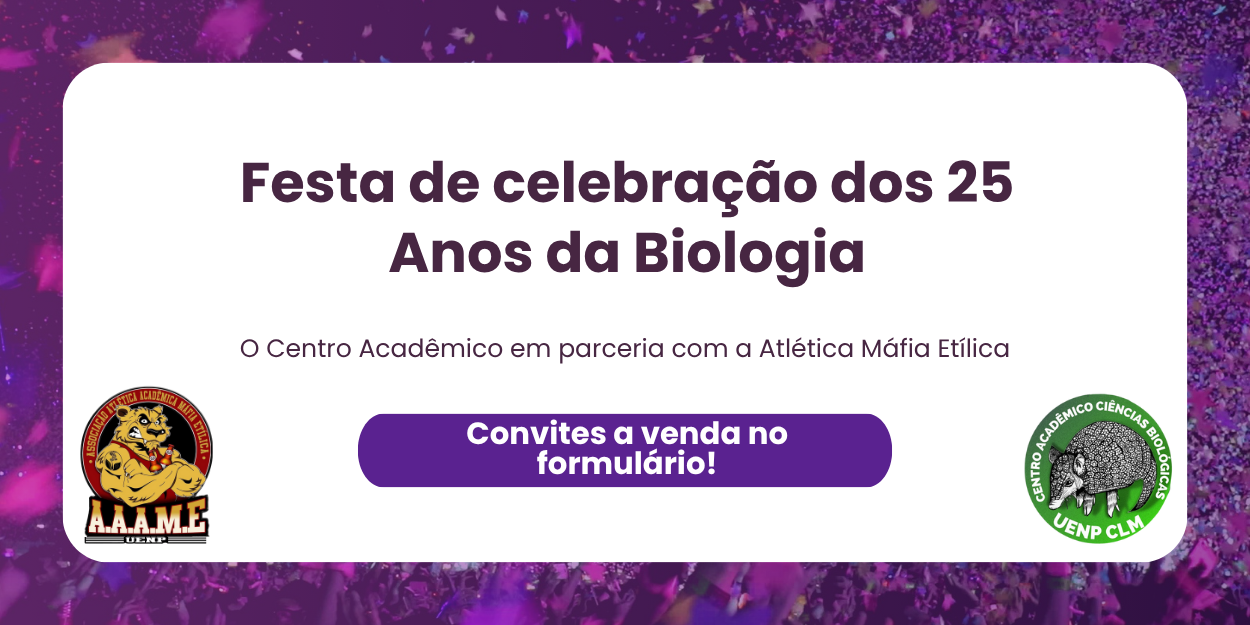
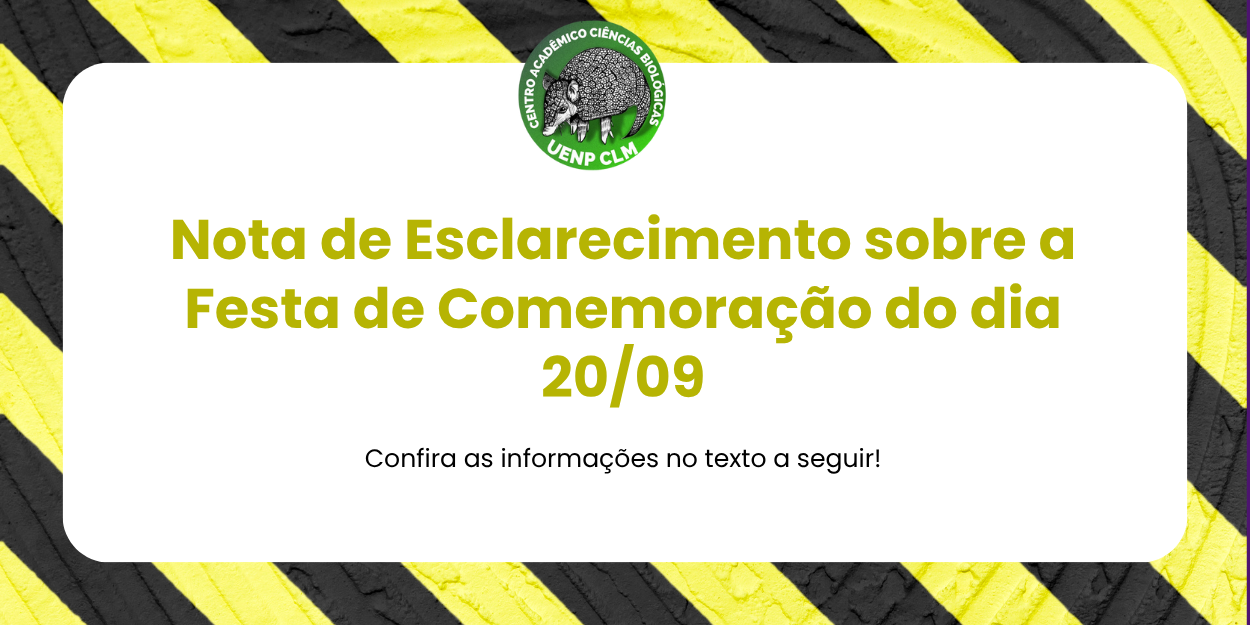
fix: card destaque festa e pages titles

diff --git a/index.html b/index.html
@@ -5,7 +5,7 @@
     <meta charset="UTF-8">
     <link rel="icon" href="public/favicon.ico" type="image/x-icon">
     <meta name="viewport" content="width=device-width, initial-scale=1.0">
-    <title>25 Anos de Biologia</title>
+    <title>25 Anos de Biologia / UENP-CLM</title>
     <link href="./css/tailwind.css" rel="stylesheet">
     <link rel="stylesheet" href="https://cdnjs.cloudflare.com/ajax/libs/font-awesome/6.4.0/css/all.min.css">
     <style>
@@ -517,11 +517,10 @@
                 imagem: "public/images/manu-agradecimento.png",
             },
             {
-                titulo: "Festa de Comemoração dos 25 Anos da Biologia",
+                titulo: "Nota oficial",
                 descricao:
-                    "O Centro Acadêmico e a Atlética Máfia Etílica estão organizando uma festa inesquecível em comemoração aos 25 anos do curso de Biologia! O apoio e a participação dos discentes são fundamentais para o sucesso da nossa celebração. Marque na agenda: o evento acontecerá no dia 20 de setembro de 2025.",
+                    "Por meio desta, o Centro Acadêmico vem informar que a comemoração prevista para o dia 20/09 será adiada devido a motivos alheios à nossa vontade. Reiteramos que o evento será reorganizado em conjunto com os docentes do colegiado do curso, garantindo sua realização futura. Pedimos paciência e compreensão de todos para que possamos realizar esta celebração da melhor forma possível. Novas informações serão divulgadas em breve!",
                 imagem: "public/images/festa-banner.png",
-                data: "20/09",
             },
             {
                 titulo: "Agradecimento à Universidade Estadual do Norte do Paraná",
@@ -536,14 +535,6 @@
             <div class="event-card bg-white rounded-xl shadow-md overflow-hidden transition duration-300">
             <div class="h-60 relative overflow-hidden">
                 <img src="${evento.imagem}" alt="${evento.titulo}" class="w-full h-full object-cover" />
-                ${evento.data
-                    ? `<div class="absolute bottom-4 left-4">
-                        <span class="bg-yellow-400 text-gray-900 text-xs font-bold px-2 py-1 rounded">
-                        Dia ${evento.data}
-                        </span>
-                    </div>`
-                    : ""
-                }
             </div>
             <div class="p-6">
                 <h3 class="text-xl font-bold mb-2 text-gray-800">${evento.titulo}</h3>
@@ -626,9 +617,9 @@
                 day1: [
                     { time: "08:00 - 11:30", type: "Minicurso", period: "Manhã", title: "Introdução à aquarela na educação ambiental e ilustração científica", speaker: "Com: Fernanda Dotti do Prado (12 vagas)", border: false },
                     { time: "08:00 - 11:30", type: "Minicurso", period: "Manhã", title: `<span class="red-text">[PT.1]</span> Citogenética e Evolução Cromossômica de Aranhas`, speaker: "Com: Matheus Pires Rincão (20 vagas)", border: false },
-                    { time: "13:30 - 17:30", type: "Minicurso", period: "Tarde", title: `<span class="red-text">[PT.2]</span> Citogenética e Evolução Cromossômica de Aranhas`, speaker: "Com: Matheus Pires Rincão (20 vagas)", border: true },
+                    { time: "13:30 - 17:30", type: "Minicurso", period: "Tarde", title: "Segredos do Mar: Navegando pelo mundo dos Invertebrados Marinhos", speaker: "Com: Amanda Novelli (15 vagas)", border: true },
                     { time: "13:30 - 17:30", type: "Minicurso", period: "Tarde", title: `<span class="red-text">[PT.1]</span> Fungos de importância ambiental: práticas de identificação e cultivo`, speaker: "Com: Christiane Luciana da Costa (14 vagas)", border: false },
-                    { time: "13:30 - 17:30", type: "Minicurso", period: "Tarde", title: "Segredos do Mar: Navegando pelo mundo dos Invertebrados Marinhos", speaker: "Com: Amanda Novelli (15 vagas)", border: false },
+                    { time: "13:30 - 17:30", type: "Minicurso", period: "Tarde", title: `<span class="red-text">[PT.2]</span> Citogenética e Evolução Cromossômica de Aranhas`, speaker: "Com: Matheus Pires Rincão (20 vagas)", border: false },
                     { time: "19:00 - 20:30", type: "Palestra", period: "Noite", title: "Reconhecimento de Padrões em Bioinformática", speaker: "Com: Fabricio Martins Lopes", border: true },
                     { time: "21:00 - 22:30", type: "Palestra", period: "Noite", title: "Educação Sexual: desafios e possibilidades no ensino médio", speaker: "Com: Sandra Mara Miranda Proni", border: false }
                 ],
@@ -666,7 +657,7 @@
 
             // Função para criar o HTML de um evento
             function createEventHtml(event) {
-                const borderClass = event.border ? 'border-t border-gray-100 pt-6' : '';
+                const borderClass = event.border ? 'border-t border-gray-200 pt-6' : '';
                 const typeColor = tagColors[event.type] || 'bg-gray-100 text-gray-800';
                 const periodColor = periodColors[event.period] || 'bg-gray-100 text-gray-800';
 

diff --git a/programacao.html b/programacao.html
@@ -5,7 +5,7 @@
     <meta charset="UTF-8">
     <link rel="icon" href="public/favicon.ico" type="image/x-icon">
     <meta name="viewport" content="width=device-width, initial-scale=1.0">
-    <title>25 Anos de Biologia</title>
+    <title>Programação do Evento</title>
     <link href="./css/tailwind.css" rel="stylesheet">
     <link rel="stylesheet" href="https://cdnjs.cloudflare.com/ajax/libs/font-awesome/6.4.0/css/all.min.css">
     <style>
